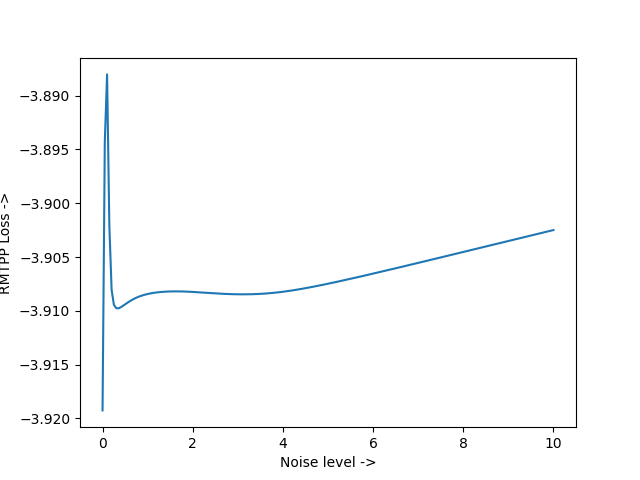
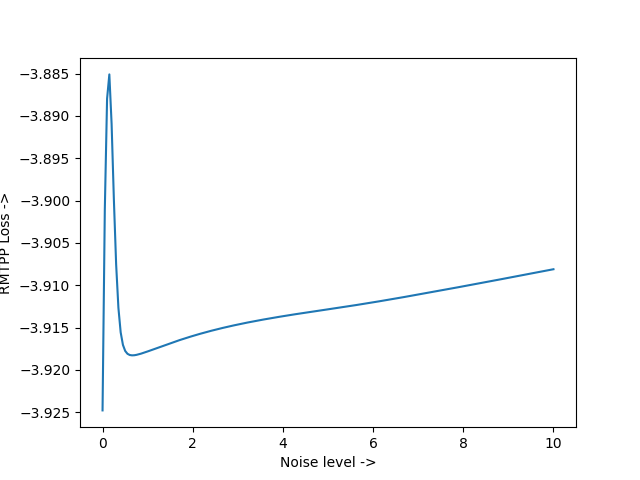
rmtpp loss idx=5

diff --git a/noise.py b/noise.py
@@ -79,7 +79,7 @@ def evaluate_noise_loss():
             #print("batch[0][0] shape := ", len(batch[0][0]))
             #batch[0][0][0] += z
             #batch[0][0] += z
-            batch[0][:][1] +=z
+            batch[0][:][5] +=z
             time_tensor, event_tensor = batch
             time_input, time_target = model.dispatch([time_tensor[:, :-1], time_tensor[:, -1]])
             event_input, event_target = model.dispatch([event_tensor[:, :-1], event_tensor[:, -1]])
